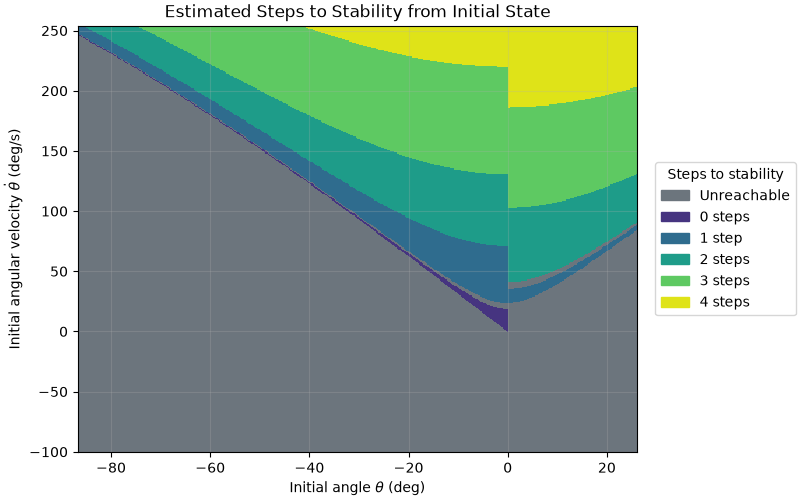
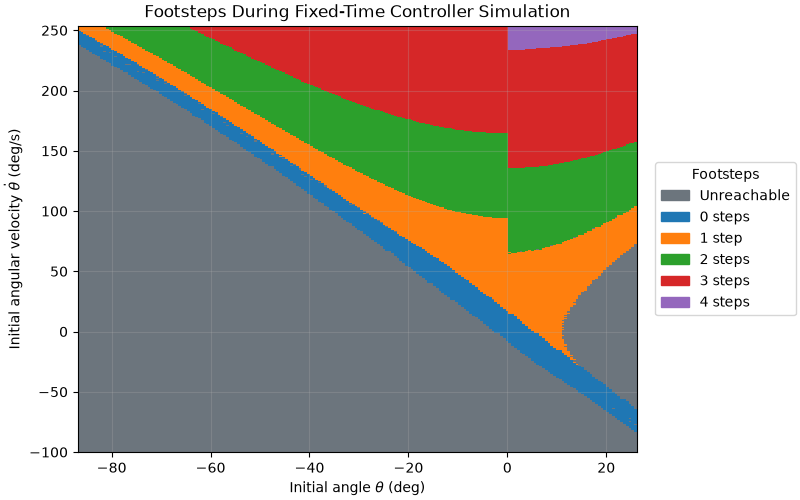
finish report

diff --git a/assignment_2.py b/assignment_2.py
@@ -222,6 +222,29 @@ def is_state_in_roa(state, roa_bounds):
 
 @jax.tree_util.register_dataclass
 @dataclass(frozen=True)
+class MinimumAlphaController:
+    roa_bounds: jax.Array
+    ankle_controller_enabled: jax.Array
+
+    def update(self, state, params):
+        ankle_controller_enabled = self.ankle_controller_enabled | is_state_in_roa(
+            state, self.roa_bounds
+        )
+        ankle_torque = jnp.where(
+            ankle_controller_enabled,
+            compute_ankle_torque(state, params),
+            0.0,
+        )
+        alpha = params["angle_of_attack_bounds"][0]
+        next_controller = MinimumAlphaController(
+            roa_bounds=self.roa_bounds,
+            ankle_controller_enabled=ankle_controller_enabled,
+        )
+        return next_controller, jnp.array([ankle_torque, alpha])
+
+
+@jax.tree_util.register_dataclass
+@dataclass(frozen=True)
 class LookupTableController:
     policy_map: jax.Array
     roa_bounds: jax.Array
@@ -231,8 +254,9 @@ class LookupTableController:
     initialized: jax.Array
 
     def update(self, state, params):
-        section_crossed = ~self.initialized | (
-            (self.previous_theta <= 0.0) & (state[0] > 0.0)
+        starts_on_section = ~self.initialized & (state[0] == 0.0) & (state[1] >= 0.0)
+        section_crossed = starts_on_section | (
+            self.initialized & (self.previous_theta <= 0.0) & (state[0] > 0.0)
         )
         closest_index = jnp.argmin(jnp.abs(self.policy_map[:, 0] - state[1]))
         steps_remaining = self.policy_map[closest_index, 1]
@@ -244,7 +268,9 @@ class LookupTableController:
         walking_alpha = jnp.where(
             section_crossed & (steps_remaining > 0),
             selected_alpha,
-            self.alpha,
+            jnp.where(
+                self.initialized, self.alpha, params["angle_of_attack_bounds"][0]
+            ),
         )
         alpha = jnp.where(
             ankle_controller_enabled,
@@ -281,7 +307,8 @@ def calculate_absolute_energy(state_traj, impacts, params, control_traj):
 
     kinetic_energy, potential_energy = model.calculate_energy(state_traj, params)
     step_height = 2 * length * jnp.sin(impact_alphas) * jnp.sin(incline)
-    stance_height_changes = impacts * step_height
+    # A forward step places the new stance foot lower on the downhill slope.
+    stance_height_changes = -(impacts * step_height)
     stance_height = jnp.cumsum(stance_height_changes)
     potential_energy = potential_energy + mass * gravity * stance_height
 
@@ -302,6 +329,71 @@ def plot_energy(time_traj, state_traj, impacts, params, control_traj):
     ax.set_title("Absolute Energy")
     ax.grid(alpha=0.25)
     ax.legend()
+
+    return fig
+
+
+def plot_state_space(state_traj, impacts, control_traj, params):
+    theta_degrees = np.rad2deg(np.asarray(state_traj[0]))
+    theta_dot_degrees = np.rad2deg(np.asarray(state_traj[1]))
+    impacts = np.asarray(impacts, dtype=bool)
+    gamma = float(params["incline"])
+    alpha_values = np.unique(np.asarray(control_traj[:, 1]))
+
+    fig, ax = plt.subplots(figsize=(8, 5), layout="constrained")
+    ax.plot(theta_degrees, theta_dot_degrees, color="#23699b", linewidth=1.8)
+    ax.scatter(
+        theta_degrees[impacts],
+        theta_dot_degrees[impacts],
+        color="#df8a25",
+        s=24,
+        zorder=3,
+        label="Post-impact state",
+    )
+    ax.scatter(
+        theta_degrees[0],
+        theta_dot_degrees[0],
+        color="#2a9d8f",
+        s=45,
+        zorder=4,
+        label="Initial state",
+    )
+    ax.scatter(
+        theta_degrees[-1],
+        theta_dot_degrees[-1],
+        color="#e63946",
+        s=45,
+        zorder=4,
+        label="Final state",
+    )
+
+    for index, alpha in enumerate(alpha_values):
+        ax.axvline(
+            np.rad2deg(gamma + alpha),
+            color="#df8a25",
+            linestyle="--",
+            linewidth=1.0,
+            alpha=0.45,
+            label=r"Touchdown: $\theta=\alpha+\gamma$" if index == 0 else None,
+        )
+        ax.axvline(
+            np.rad2deg(gamma - alpha),
+            color="#6f42c1",
+            linestyle=":",
+            linewidth=1.0,
+            alpha=0.45,
+            label=(
+                r"Post-impact: $\theta=\gamma-\alpha=-(\alpha-\gamma)$"
+                if index == 0
+                else None
+            ),
+        )
+
+    ax.set_title("Closed-Loop State-Space Trajectory")
+    ax.set_xlabel(r"Angle $\theta$ (deg)")
+    ax.set_ylabel(r"Angular velocity $\dot{\theta}$ (deg/s)")
+    ax.grid(alpha=0.25)
+    ax.legend(loc="center left", bbox_to_anchor=(1.02, 0.5))
 
     return fig
 
@@ -1009,9 +1101,12 @@ def compute_initial_state_steps(
 def plot_initial_state_steps(result: InitialStateStepsResult):
     steps_grid = np.asarray(result.steps_grid)
     max_steps = max(0, np.max(steps_grid))
-    step_colors = plt.get_cmap("viridis")(np.linspace(0.15, 0.95, max_steps + 1))
+    step_colors = plt.get_cmap("tab10")(np.arange(max_steps + 1))
     color_map = ListedColormap(["#6c757d", *step_colors])
-    color_norm = BoundaryNorm(np.arange(max_steps + 3) - 0.5, color_map.N)
+    color_norm = BoundaryNorm(
+        np.arange(max_steps + 3) - 0.5,
+        color_map.N,
+    )
     plot_grid = np.where(steps_grid < 0, 0, steps_grid + 1)
 
     fig, ax = plt.subplots(figsize=(8, 5), layout="constrained")
@@ -1079,10 +1174,16 @@ def main():
         "trajectory", help="animate a trajectory and plot its energy"
     )
     trajectory_parser.add_argument(
-        "map_file",
-        nargs="?",
+        "--map-file",
         type=Path,
-        help="optional .npy policy map generated by lookup-table",
+        default=Path("output/assignment_2/policy_map.npy"),
+        help="policy map generated by lookup-table",
+    )
+    trajectory_parser.add_argument(
+        "--controller",
+        choices=("standing", "lookup", "minimum-alpha"),
+        required=True,
+        help="controller to simulate",
     )
     trajectory_parser.add_argument(
         "--roa-bounds-file",
@@ -1109,8 +1210,7 @@ def main():
         help="plot estimated steps to stability over the full initial-state grid",
     )
     initial_state_steps_parser.add_argument(
-        "map_file",
-        nargs="?",
+        "--map-file",
         type=Path,
         default=Path("output/assignment_2/policy_map.npy"),
         help="policy map generated by lookup-table",
@@ -1144,8 +1244,16 @@ def main():
 
         start = time.perf_counter()
         initial_alpha = jnp.asarray(params["angle_of_attack_bounds"][0])
-        controller = StandingController(initial_alpha)
-        if args.map_file is not None:
+        controller_name = args.controller
+        if controller_name == "standing":
+            controller = StandingController(initial_alpha)
+        elif controller_name == "minimum-alpha":
+            roa_bounds = jnp.asarray(np.load(args.roa_bounds_file, allow_pickle=False))
+            controller = MinimumAlphaController(
+                roa_bounds=roa_bounds,
+                ankle_controller_enabled=jnp.asarray(False),
+            )
+        else:
             policy_map = np.load(args.map_file, allow_pickle=False)
             roa_bounds = np.load(args.roa_bounds_file, allow_pickle=False)
             # The policy is defined on the theta=0 Poincare section.
@@ -1157,6 +1265,7 @@ def main():
                 ankle_controller_enabled=jnp.asarray(False),
                 initialized=jnp.asarray(False),
             )
+        print(f"Using {controller_name} controller.")
         time_traj, state_traj, impacts, control_traj = simulate(
             initial_state,
             timestep,
@@ -1176,7 +1285,17 @@ def main():
         animation.save(output / "walker.gif", writer=PillowWriter(fps=fps))
         energy_fig = plot_energy(time_traj, state_traj, impacts, params, control_traj)
         energy_fig.savefig(output / "energy.png")
-        print(f"Saved {output / 'walker.gif'} and {output / 'energy.png'}.")
+        state_space_fig = plot_state_space(
+            state_traj,
+            impacts,
+            control_traj,
+            params,
+        )
+        state_space_fig.savefig(output / "state_space.png")
+        print(
+            f"Saved {output / 'walker.gif'}, {output / 'energy.png'}, and "
+            f"{output / 'state_space.png'}."
+        )
     elif args.command == "roa":
         NUM_THETAS = 200
         NUM_THETA_DOTS = 200

diff --git a/writeups/assignment_2.md b/writeups/assignment_2.md
@@ -4,16 +4,18 @@
 
 ```bash
 $ uv run assignment_2.py --help
-usage: assignment_2.py [-h] {trajectory,roa,return-map,lookup-table} ...
+usage: assignment_2.py [-h] {trajectory,roa,return-map,lookup-table,...
 
 Simulate the inverted pendulum walker
 
 positional arguments:
-  {trajectory,roa,return-map,lookup-table}
+  {trajectory,roa,return-map,lookup-table,initial-state-steps}
     trajectory          animate a trajectory and plot its energy
     roa                 plot the upright controller's region of attraction
     return-map          plot the theta=0 Poincare return map
-    lookup-table        compute minimum steps to the ankle controller's RoA and save the optimal alphas
+    lookup-table        compute minimum steps to the ankle controller's RoA...
+    initial-state-steps
+                        plot estimated steps to stability over the full...
 
 options:
   -h, --help            show this help message and exit
@@ -30,7 +32,9 @@ uv run assignment_2.py lookup-table
 And then run
 
 ```bash
-uv run assignment_2.py trajectory output/assignment_2/policy_map.npy
+uv run assignment_2.py trajectory --controller lookup \
+    --map-file output/assignment_2/policy_map.npy \
+    --roa-bounds-file output/assignment_2/roa_bounds.npy
 ```
 
 ### Using an accelerator
@@ -48,6 +52,15 @@ this write up.
 
 ## Sketches
 
+![Sketches of different walker states](assignment_2_results/sketches1.png)
+
+![Sketch of state space](assignment_2_results/sketches2.png)
+
+The locations of all four sketches on the state space plot are shown in pink.
+The bounds (which vary based on $\alpha$) are shown in yellow. $\gamma$ shifts
+both the upper and lower bound to the right. The size of the yellow bands is not
+necessarily to scale with the sketches.
+
 ## RoA of ankle controller
 
 The ankle torque is controlled via feedback linearization. We apply torque to
@@ -55,6 +68,7 @@ remove the effects of gravity and pendulum damping, and then add the same dynami
 with _inverted_ gravity so the pendulum behaves as if it is hanging down.
 
 ![The ankle torque controller's region of attraction.](assignment_2_results/upright_roa.png)
+
 The ankle torque controller's region of attraction. Blue states are states which
 the controller could stabilize the pendulum. We sweep
 $\theta \in [-\frac{\pi}{2} + \gamma, \alpha + \gamma]$.
@@ -72,6 +86,7 @@ collision angle), allows us to use only $\dot{\theta}$ as the return map state
 the pendulum has _just_ enough energy to stop at upright unstable equilibrium
 (the blue highlighted ones in the below image). We do not really care about these
 orbits, however, as they will stabilize anyways.
+
 ![Flow of uncontrolled inverted pendulum](assignment_2_results/orbits.png)
 
 ## Grid resolution
@@ -81,7 +96,8 @@ resolution. A good way to check how well we are doing is to compare what we
 _think_ will happen based on our discretized state grid and transitions to what
 actually happens. If we use just 4 uniform alpha values and 10 uniform $\dot{\theta}$
 values, we get this plot:
-![Plot](assignment_2_results/steps_to_stability_10_4.png)
+
+![Artifacts in steps to stability with 10 $\dot{\theta}$ and 4 $\alpha$](assignment_2_results/steps_to_stability_10_4.png)
 
 The first plot shows how many steps we expect each of the 10 possible start states
 to take based only on the state transition graph. If the resolution is too low,
@@ -97,15 +113,18 @@ light green band) in some cases. This implies our $\dot{\theta}$ resolution is
 too low.
 
 Indeed, if we increase our resolution to 40, these issues seem to mostly disappear.
-![Plot](assignment_2_results/steps_to_stability_40_4.png)
+![No artifacts in steps to stability with 40 $\dot{\theta}$](assignment_2_results/steps_to_stability_40_4.png)
 
 But at 35, they are still there.
-![Plot](assignment_2_results/steps_to_stability_35_4.png)
+
+![Artifacts in steps to stability with 35 $\dot{\theta}$](assignment_2_results/steps_to_stability_35_4.png)
 
 What about the resolution of alpha? This surprisingly doesn't seem to matter
 _too_ much, but choosing an extremely low value (like restricting the controller
 to only 2 alphas but still with 40 $\dot{\theta}$) can still cause problems.
-![Plot](assignment_2_results/steps_to_stability_40_2.png)
+
+![Artifacts in steps to stability with 35 $\alpha$](assignment_2_results/steps_to_stability_40_2.png)
+
 This is probably because the alpha selected for a given discretized $\dot{\theta}$
 worked for that particular $\dot{\theta}$ but may not work for every continuous
 state that corresponds to the discretized state. When choosing the $\alpha$ to use,
@@ -117,3 +136,47 @@ few options for $\alpha$ that work then this is not very effective, and that is 
 we are seeing here.
 
 ## Trajectory plot
+
+Here is a trajectory with initial state $\theta = -0.1$, $\dot{\theta} = 3.0$. Note
+that $\theta = -0.1$ was selected so the walker passes through the Poincaré section
+and the correct $\alpha$ is selected.
+
+![State space plot for trajectory with 3 steps](assignment_2_results/three_step_state_space.png)
+
+We can find the maximum number of steps we can take before converging to the RoA
+by always setting the $\alpha$ to the minimum. Note that there may be some initial
+conditions for which this _doesn't_ work: it's hypothetically possible to have
+too much energy to stay in the RoA at one step but too little to make it to the
+RoA in the next. However, if setting $\alpha$ to the minimum _does_ happen to
+converge, we can guarantee that it is the maximum number of steps we can take before
+we first enter the RoA since the minimum $\alpha$ results in the least energy loss.
+For the initial condition I picked, this works, and tells us we can take at most
+4 steps.
+
+![State space plot for same initial condition but more steps using minimal $\alpha$ controller](assignment_2_results/long_state_space.png)
+
+## Steps to standstill
+
+We can look at a map over the whole state space of how many steps it takes to get
+to the RoA. The earlier plots in "Grid resolution" are essentially 1D vertical
+slices of this plot.
+
+![Map showing how many steps it takes to get to the RoA from different initial conditions.](assignment_2_results/initial_state_steps.png)
+
+This was produced with the controller with 40 theta dot values and 4 alpha values.
+The $\theta = 0$ slice should look pretty familiar if you compare it to the
+previous plots. The "0 steps" section looks
+_kind of_ like the RoA but not exactly, and it has small spots of "unreachable".
+These are both likely caused by the fact that this controller _isn't_ exactly the
+controller used to produced the RoA. The controller used to produce the RoA always
+turns on the ankle torque, sometimes to the benefit but sometimes to the
+detriment of the system: it can cause overshoot as well. The controller used to
+produce this plot, however, will coast until the system ends up in the known RoA,
+meaning it is less prone to overshoot (but also may not recover from certain cases).
+So, we should expect the 0 step plot to look a bit different.
+
+The other thing that looks weird are these sharp discontinuities at $\theta = 0$.
+These are mostly artifacts of the controller. Since the walker doesn't pass through
+a Poincaré section before the first step if it starts after $\theta = 0$, we
+conservatively use the minimum $\alpha$, which isn't usually optimal. This costs us
+more steps.
